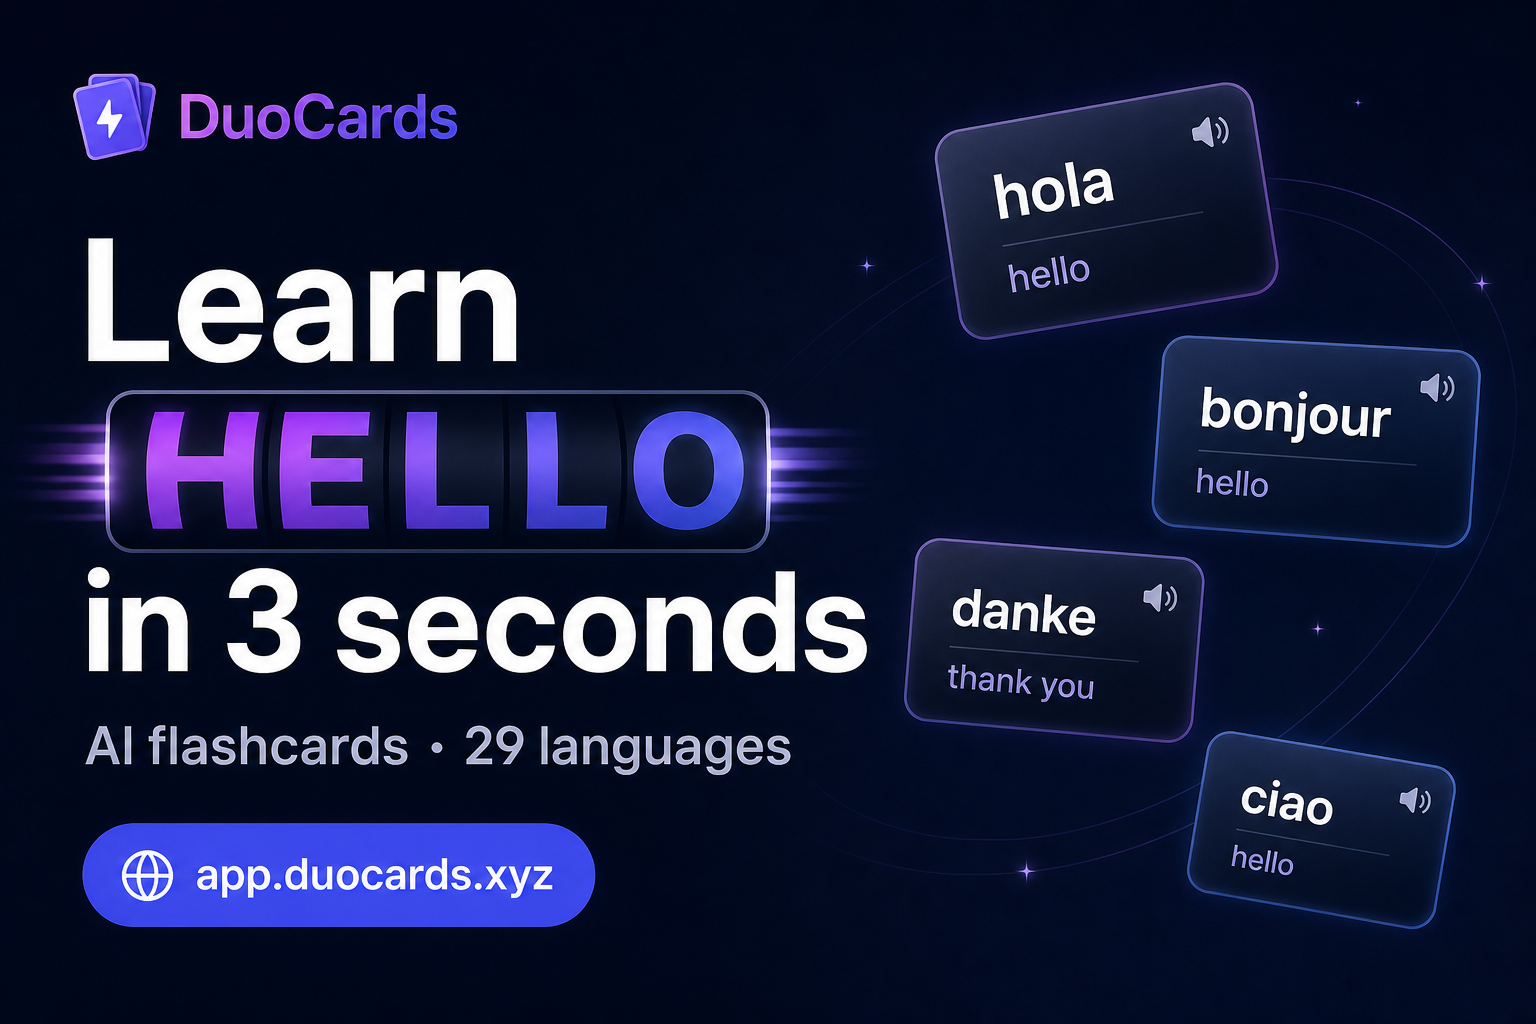
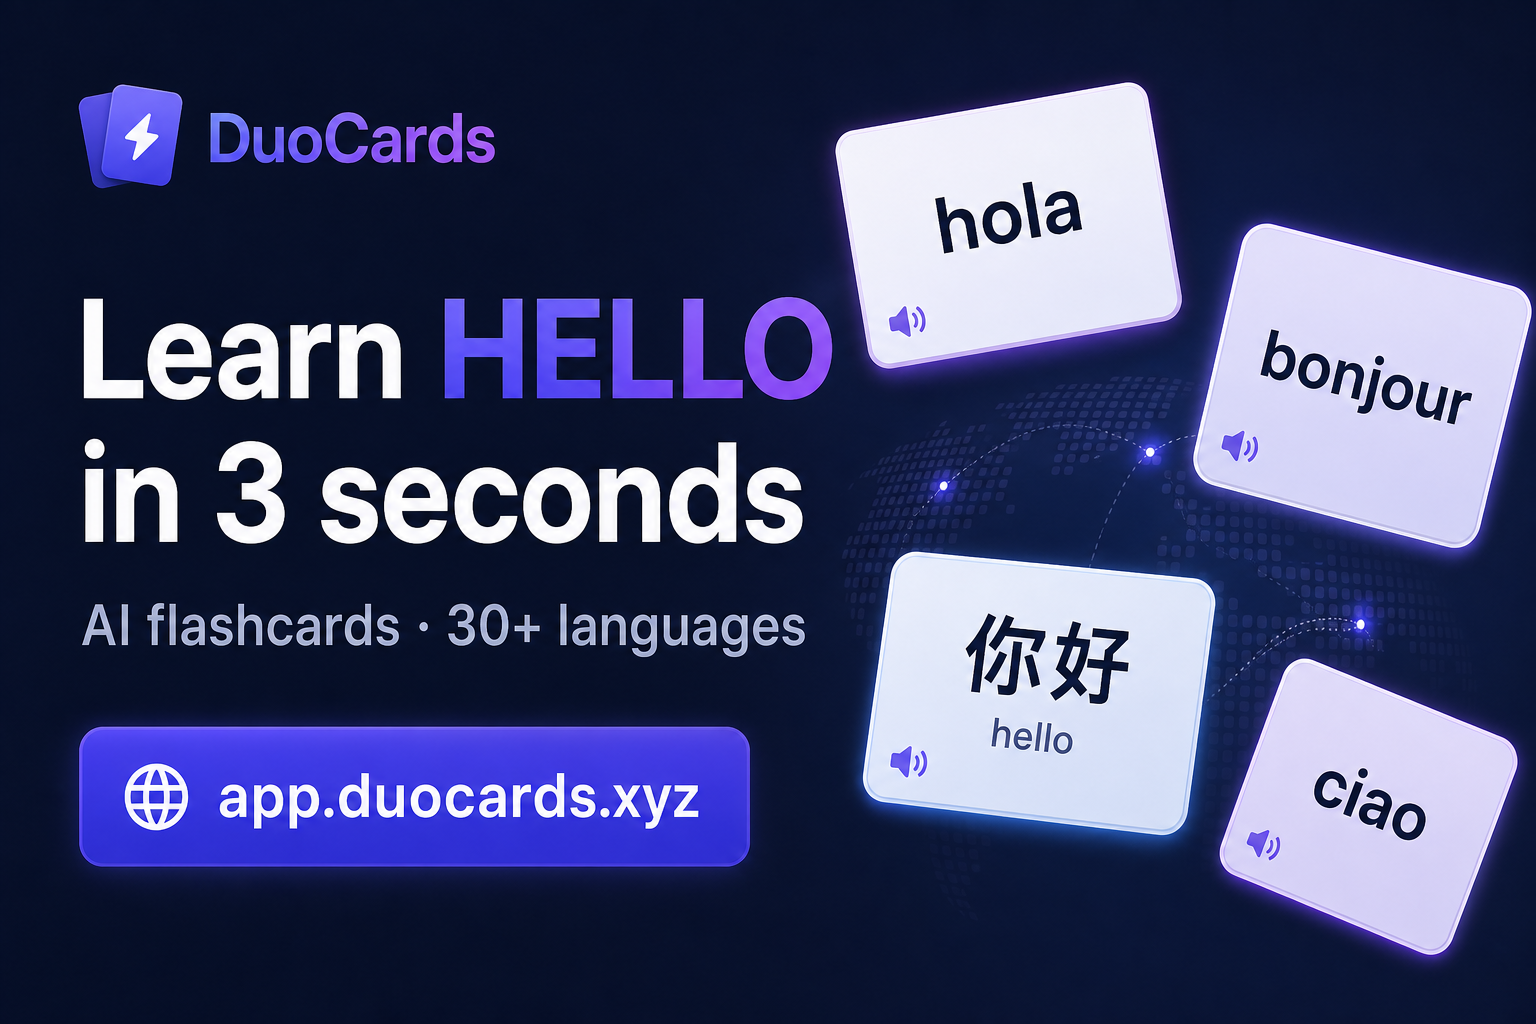
Update social preview and copy to 30+ languages with Chinese hello.
Refresh og-image.png, replace danke flier with 你好, and align site metadata and stats with 30+ language support.

diff --git a/i18n.js b/i18n.js
@@ -3,18 +3,19 @@
 'use strict';
 
 const STORAGE_KEY = 'duocards-lang';
-const LANG_COUNT = 29;
+const LANG_COUNT = 30;
+const LANG_LABEL = '30+';
 const refreshers = [];
 
 const T = {
   en: {
     metaTitle: 'DuoCards — AI Flashcards to Learn Any Language',
-    metaDesc: `Learn vocabulary in 3 seconds with AI flashcards and spaced repetition. ${LANG_COUNT} languages, swipe-to-study decks, free web app. Start at app.duocards.xyz.`,
+    metaDesc: `Learn vocabulary in 3 seconds with AI flashcards and spaced repetition. ${LANG_LABEL} languages, swipe-to-study decks, free web app. Start at app.duocards.xyz.`,
     metaKeywords: 'language learning, flashcards, spaced repetition, vocabulary app, learn Spanish, learn German, AI translator, language flashcards, memorize words, DuoCards',
     ogTitle: 'DuoCards — Learn a Word in 3 Seconds',
-    ogDesc: `AI flashcards that know when you start forgetting. Swipe, flip, and master ${LANG_COUNT} languages — free on the web.`,
+    ogDesc: `AI flashcards that know when you start forgetting. Swipe, flip, and master ${LANG_LABEL} languages — free on the web.`,
     ogImageAlt: 'DuoCards — AI flashcards for language learning',
-    jsonLdDesc: `DuoCards is a free web app for learning languages with AI flashcards, spaced repetition, and swipe-based study decks in ${LANG_COUNT} languages.`,
+    jsonLdDesc: `DuoCards is a free web app for learning languages with AI flashcards, spaced repetition, and swipe-based study decks in ${LANG_LABEL} languages.`,
     brandAria: 'DuoCards — top of page',
     langSwitch: 'Switch to Czech',
     langLabel: 'CS',
@@ -31,7 +32,7 @@ const T = {
     straySaudade: '[PT] bittersweet longing',
     flierSerendipity: '[EN] happy accident',
     flierBonjour: 'hello',
-    flierDanke: 'thanks',
+    flierNihao: 'hello',
     flierCiao: 'hey',
     chap01: '01 / TRY IT',
     demoTitle: 'Swipe. Flip. Learn.',
@@ -51,7 +52,7 @@ const T = {
     btnDone: '↑ Learned',
     chap02: '02 / AI TRANSLATOR',
     aiTitle: 'One tap. Done card.',
-    aiBody: `No typing. Tap a word, AI translates it, pronounces it, and adds it to your deck. Works in ${LANG_COUNT} languages.`,
+    aiBody: `No typing. Tap a word, AI translates it, pronounces it, and adds it to your deck. Works in ${LANG_LABEL} languages.`,
     aiTap: '↳ tap',
     aiTrans: 'swallow',
     chap03: '03 / SPACED REPETITION',
@@ -84,7 +85,7 @@ const T = {
     statPiles: 'PILES',
     statTap: 'TAP PER CARD',
     statDecks: 'COMMUNITY DECKS',
-    statsLine: `${LANG_COUNT} languages. 3 piles. 1 app.`,
+    statsLine: `${LANG_LABEL} languages. 3 piles. 1 app.`,
     streak: '247 DAY STREAK',
     stampEn: 'English — play greeting',
     stampEs: 'Spanish — play greeting',
@@ -126,12 +127,12 @@ const T = {
   },
   cs: {
     metaTitle: 'DuoCards — Nauč se jazyky s AI kartičkami',
-    metaDesc: `Nauč se slovíčka za 3 vteřiny. AI kartičky se spaced repetition v ${LANG_COUNT} jazycích. Švihej, otáčej, pamatuj — zdarma na app.duocards.xyz.`,
+    metaDesc: `Nauč se slovíčka za 3 vteřiny. AI kartičky se spaced repetition ve ${LANG_LABEL} jazycích. Švihej, otáčej, pamatuj — zdarma na app.duocards.xyz.`,
     metaKeywords: 'učení jazyků, kartičky, spaced repetition, slovíčka, naučit se španělsky, AI překladač, flashcards, DuoCards, výuka jazyků',
     ogTitle: 'DuoCards — Nauč se slovo za 3 vteřiny',
-    ogDesc: `AI kartičky, které znají rytmus tvého mozku. Švihej, otáčej a zvládni ${LANG_COUNT} jazyků — zdarma na webu.`,
+    ogDesc: `AI kartičky, které znají rytmus tvého mozku. Švihej, otáčej a zvládni ${LANG_LABEL} jazyků — zdarma na webu.`,
     ogImageAlt: 'DuoCards — AI kartičky pro učení jazyků',
-    jsonLdDesc: `DuoCards je bezplatná webová aplikace pro učení jazyků s AI kartičkami, spaced repetition a výukou v ${LANG_COUNT} jazycích.`,
+    jsonLdDesc: `DuoCards je bezplatná webová aplikace pro učení jazyků s AI kartičkami, spaced repetition a výukou ve ${LANG_LABEL} jazycích.`,
     brandAria: 'DuoCards — začátek stránky',
     langSwitch: 'Přepnout do angličtiny',
     langLabel: 'EN',
@@ -148,7 +149,7 @@ const T = {
     straySaudade: '[PT] sladkobolný stesk',
     flierSerendipity: '[EN] šťastná náhoda',
     flierBonjour: 'ahoj',
-    flierDanke: 'díky',
+    flierNihao: 'ahoj',
     flierCiao: 'čau',
     chap01: '01 / VYZKOUŠEJ',
     demoTitle: 'Švihni. Otoč. Nauč se.',
@@ -168,7 +169,7 @@ const T = {
     btnDone: '↑ Naučeno',
     chap02: '02 / AI PŘEKLADAČ',
     aiTitle: 'Jedno klepnutí. Hotová kartička.',
-    aiBody: `Žádné vypisování. Klepneš na slovo, AI ho přeloží, vysloví a zařadí do balíčku. Funguje v ${LANG_COUNT} jazycích.`,
+    aiBody: `Žádné vypisování. Klepneš na slovo, AI ho přeloží, vysloví a zařadí do balíčku. Funguje ve ${LANG_LABEL} jazycích.`,
     aiTap: '↳ klepnutí',
     aiTrans: 'vlaštovka',
     chap03: '03 / SPACED REPETITION',
@@ -201,7 +202,7 @@ const T = {
     statPiles: 'HROMÁDKY',
     statTap: 'KLEPNUTÍ NA KARTIČKU',
     statDecks: 'KOMUNITNÍCH BALÍČKŮ',
-    statsLine: `${LANG_COUNT} jazyků. 3 hromádky. 1 apka.`,
+    statsLine: `${LANG_LABEL} jazyků. 3 hromádky. 1 apka.`,
     streak: '247 DNÍ V ŘADĚ',
     stampEn: 'Angličtina — přehrát pozdrav',
     stampEs: 'Španělština — přehrát pozdrav',
@@ -336,7 +337,7 @@ const applyLang = () => {
         description: L.jsonLdDesc,
         inLanguage: ['en', 'cs'],
         offers: { '@type': 'Offer', price: '0', priceCurrency: 'USD' },
-        featureList: `AI flashcards, spaced repetition, ${LANG_COUNT} languages, swipe learning, AI translator`,
+        featureList: `AI flashcards, spaced repetition, ${LANG_LABEL} languages, swipe learning, AI translator`,
       },
     ],
   };

diff --git a/index.html b/index.html
@@ -4,7 +4,7 @@
 <meta charset="UTF-8">
 <meta name="viewport" content="width=device-width, initial-scale=1">
 <title>DuoCards — AI Flashcards to Learn Any Language</title>
-<meta name="description" id="meta-desc" content="Learn vocabulary in 3 seconds with AI flashcards and spaced repetition. 29 languages, swipe-to-study decks, free web app. Start at app.duocards.xyz.">
+<meta name="description" id="meta-desc" content="Learn vocabulary in 3 seconds with AI flashcards and spaced repetition. 30+ languages, swipe-to-study decks, free web app. Start at app.duocards.xyz.">
 <meta name="keywords" id="meta-keywords" content="language learning, flashcards, spaced repetition, vocabulary app, learn Spanish, learn German, AI translator, language flashcards, memorize words, DuoCards">
 <meta name="author" content="DuoCards">
 <meta name="robots" content="index, follow, max-image-preview:large, max-snippet:-1, max-video-preview:-1">
@@ -17,7 +17,7 @@
 <meta property="og:site_name" content="DuoCards">
 <meta property="og:url" id="og-url" content="https://duocards.xyz/">
 <meta property="og:title" id="og-title" content="DuoCards — Learn a Word in 3 Seconds">
-<meta property="og:description" id="og-desc" content="AI flashcards that know when you start forgetting. Swipe, flip, and master 29 languages — free on the web.">
+<meta property="og:description" id="og-desc" content="AI flashcards that know when you start forgetting. Swipe, flip, and master 30+ languages — free on the web.">
 <meta property="og:image" id="og-image" content="https://duocards.xyz/og-image.png">
 <meta property="og:image:type" content="image/png">
 <meta property="og:image:width" content="1200">
@@ -27,7 +27,7 @@
 <meta property="og:locale:alternate" content="cs_CZ">
 <meta name="twitter:card" content="summary_large_image">
 <meta name="twitter:title" id="tw-title" content="DuoCards — Learn a Word in 3 Seconds">
-<meta name="twitter:description" id="tw-desc" content="AI flashcards that know when you start forgetting. Swipe, flip, and master 29 languages — free on the web.">
+<meta name="twitter:description" id="tw-desc" content="AI flashcards that know when you start forgetting. Swipe, flip, and master 30+ languages — free on the web.">
 <meta name="twitter:image" id="tw-image" content="https://duocards.xyz/og-image.png">
 <meta name="application-name" content="DuoCards">
 <meta name="apple-mobile-web-app-title" content="DuoCards">
@@ -68,7 +68,7 @@
     <div class="hero-fliers" aria-hidden="true">
       <span class="flier f1 cardlet"><b>serendipity</b><i data-i18n="flierSerendipity">[EN] happy accident</i></span>
       <span class="flier f2 cardlet"><b>bonjour</b><i data-i18n="flierBonjour">hello</i></span>
-      <span class="flier f3 cardlet"><b>danke</b><i data-i18n="flierDanke">thanks</i></span>
+      <span class="flier f3 cardlet"><b lang="zh">你好</b><i data-i18n="flierNihao">hello</i></span>
       <span class="flier f4 cardlet"><b>ciao</b><i data-i18n="flierCiao">hey</i></span>
     </div>
     <div class="hero-tilt" id="heroTilt">
@@ -153,7 +153,7 @@
       <div class="col-copy">
         <span class="chapnum mono" data-i18n="chap02">02 / AI TRANSLATOR</span>
         <h2 class="big wt" data-i18n-wt="aiTitle">One tap. Done card.</h2>
-        <p data-i18n="aiBody">No typing. Tap a word, AI translates it, pronounces it, and adds it to your deck. Works in 29 languages.</p>
+        <p data-i18n="aiBody">No typing. Tap a word, AI translates it, pronounces it, and adds it to your deck. Works in 30+ languages.</p>
       </div>
       <div class="col-vis">
         <div class="ai-mock">
@@ -244,12 +244,12 @@
       <span class="chapnum mono" data-i18n="chap06">06 / SCORE</span>
       <h2 class="big wt" data-i18n-wt="statsTitle">A score that keeps growing.</h2>
       <div class="stats-grid">
-        <div class="stat"><span class="stat-num"><span class="stat-val" data-target="29">0</span></span><span class="stat-label mono" data-i18n="statLangs">LANGUAGES</span></div>
+        <div class="stat"><span class="stat-num"><span class="stat-val" data-target="30">0</span>+</span><span class="stat-label mono" data-i18n="statLangs">LANGUAGES</span></div>
         <div class="stat"><span class="stat-num"><span class="stat-val" data-target="3">0</span></span><span class="stat-label mono" data-i18n="statPiles">PILES</span></div>
         <div class="stat"><span class="stat-num"><span class="stat-val" data-target="1">0</span></span><span class="stat-label mono" data-i18n="statTap">TAP PER CARD</span></div>
         <div class="stat"><span class="stat-num stat-inf">∞</span><span class="stat-label mono" data-i18n="statDecks">COMMUNITY DECKS</span></div>
       </div>
-      <p class="stats-line" data-i18n="statsLine">29 languages. 3 piles. 1 app.</p>
+      <p class="stats-line" data-i18n="statsLine">30+ languages. 3 piles. 1 app.</p>
       <div class="stamps">
         <button class="stamp-btn" type="button" data-lang="en-US" data-greet="hello" data-i18n-attr="aria-label:stampEn">[EN]<span class="spk" aria-hidden="true">♪</span></button>
         <button class="stamp-btn" type="button" data-lang="es-ES" data-greet="hola" data-i18n-attr="aria-label:stampEs">[ES]<span class="spk" aria-hidden="true">♪</span></button>
@@ -295,7 +295,7 @@
   </section>
 
 </div>
-<script src="i18n.js?v=3"></script>
+<script src="i18n.js?v=4"></script>
 <script src="script.js?v=7"></script>
 </body>
 </html>